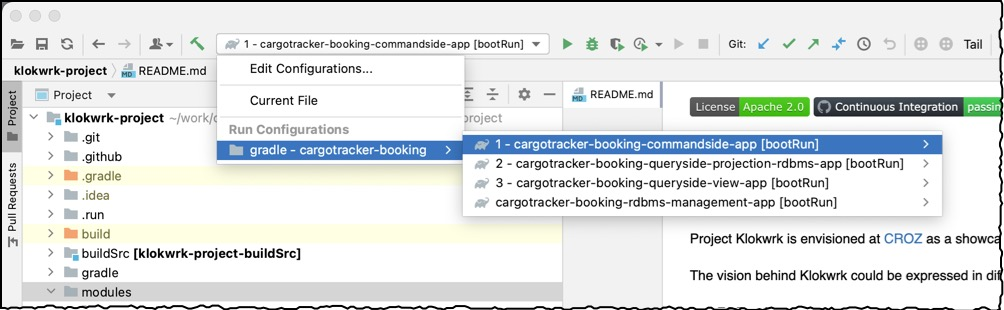
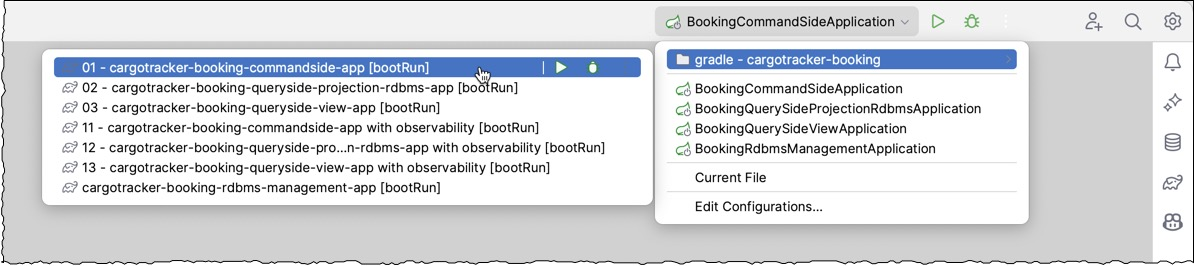
docs: Add observability section in startingUp.md article

diff --git a/support/documentation/article/starting-up/startingUp.md b/support/documentation/article/starting-up/startingUp.md
@@ -1,13 +1,13 @@
 # Starting up and trying the whole thing
 * **Author:** Damir Murat
 * **Created:** 26.05.2020.
-* **Updated:** 13.04.2022.
+* **Updated:** 30.07.2023.
 
 Environment:
 - OSX (should work with any desktop Linux distro and with Windows with appropriate bash-shell like git-bash)
 - JDK 17
-- Gradle 7.4.2 (exact version)
-- IDEA Community/Ultimate 2022.2.3
+- Gradle 7.6.1
+- IDEA Community/Ultimate 2023.2.0
 - Docker
 - Postman
 
@@ -68,7 +68,7 @@ However, if you are interested, there is a way to generate a changelog in a loca
 
 - execute the following commands:
 
-      env JRELEASER_PROJECT_VERSION=1.5.1 JRELEASER_GITHUB_TOKEN=1 \
+      env JRELEASER_PROJECT_VERSION=1.7.0 JRELEASER_GITHUB_TOKEN=1 \
       jreleaser changelog --basedir=. --config-file=./support/jreleaser/jreleaser-draft.yml --debug
 
       open out/jreleaser/release/CHANGELOG.md
@@ -103,7 +103,8 @@ After saving `.idea/gradle.xml`, you must reload all Gradle projects (use the Gr
 ![Module names without noisy qualifiers](images/02-module-names-without-noisy-qualifiers.jpg "Module names without noisy qualifiers")
 
 ## Running and exercising applications
-As in most distributed systems, we have multiple applications to run. Some of them are functional, while others have a supportive role. In addition, we also have required infrastructural pieces.
+As in most distributed systems, we have multiple applications to run. Some of them bring actual functionality, while others have a supportive role. In addition, we also have required infrastructural
+pieces.
 
 ### Starting applications
 In our case, infrastructure comprises Axon Server and PostgreSQL database. To **start those infrastructural components**, open the new shell (shell-2) at the project root and execute the following
@@ -212,24 +213,6 @@ Each request from the scenario contains tests that verify if a particular reques
 
 ![Execute scenario, step 3](images/10-executeScenarioStep3.jpg "Execute scenario, step 3")
 
-### Exploring Wavefront integration
-Since the 2.3.0 version, Spring Boot provides out-of-the-box free integration with Wavefront observability service. It offers zero-setup and feature-rich alternative to the standard observability
-solutions like Prometheus (metrics collection), Zipkin (distributed tracing) and Grafana (visualization) combo. Wavefront is very convenient and effortless to use from a development environment.
-
-Here is a very brief overview of Wavefront usage for a `klokwrk-project`:
-- Start all applications as described previously. From the output of any application, copy the link to the Wavefront service.
-
-  ![Wavefront link](images/11-wavefront-link.jpg "Wavefront link")
-
-- Execute a dozen of commandside and queryside requests as described above, to provide some data to the Wavefront.
-- Open previously copied Wavefront link and start exploring. The following resources will get you quickly up to speed: <br/>
-  - [Tanzu Observability by Wavefront for Spring Boot Applications](https://www.youtube.com/watch?v=Jxwf-Iw-3T8) <br/>
-  - [Wavefront for Spring Boot](https://docs.wavefront.com/wavefront_springboot.html) <br/>
-  - [Wavefront for Spring Boot Tutorial](https://docs.wavefront.com/wavefront_springboot_tutorial.html)
-
-> Note: If you experience issues with Wavefront integration, like getting Wavefront related errors in the log, try removing Wavefront freemium account record from your home directory
-> (`rm ~/.wavefront_freemium`) and start the applications again.
-
 ### Supportive Gradle tasks
 While working on a project, a developer often needs access to various pieces of information about the current state of a project. These reports might provide beneficial information about code quality
 and can point to the areas which require some attention and improvements. Project Klokwrk has a dozen of Gradle tasks that provide such information. They can be run for each individual module, or
@@ -272,3 +255,50 @@ from the project's root.
 - `gw aggregateGroovydoc`
 
   Creates a cumulative documentation for the whole project accessible at `build/docs/aggregate-groovydoc/index.html`.
+
+## Observability with Grfana Cloud (optional)
+To support observability features (metrics, logs, and traces), klokwrk uses the free plan of [Grafana Cloud](https://grafana.com/) offering. The instrumentation of applications is based on
+Spring Boot's micrometer support and OpenTelemetry. For integrating OpenTelemetry with Grafana, klokwrk uses the [grafana-opentelemetry-starter](https://github.com/grafana/grafana-opentelemetry-starter)
+library, and for instrumenting Axon components, the [axon-micrometer](https://github.com/AxonFramework/AxonFramework/blob/master/metrics-micrometer/pom.xml) library.
+
+The delivery of observability data to the Grafana Cloud leverages [Grafana Agent](https://github.com/grafana/agent), a single infrastructure component required to run locally (inside the Docker
+container).
+
+### Configuring observability infrastructure
+As a first step, you have to assign for a [permanent free plan](https://grafana.com/products/cloud/) at Grafana Clod. Make sure you save your Grafana Cloud API key in a safe place.
+
+Second, you must configure Grafana Agent for authorized access to all required components of your Grafana Cloud profile. That includes providing URLs and usernames for provisioned Grafana Cloud's
+Prometheus, Loki, and Tempo servers and your Grafana Cloud API key. Assuming you have the API key already, other information can be found on the
+[https://grafana.com/profile/org](https://grafana.com/profile/org) page.
+
+Now, you must provide that information to the Grafana Agent on your machine. You can do this in the following way:
+- create `support/docker/grafana/grafana-agent/agent.env` file. It will contain all necessary config data as environment variables. And do not worry; the `agent.env` is added to the git ignore list,
+  so you will not accidentally commit it.
+- copy the content of `support/docker/grafana/grafana-agent/agent.env.sample` file in the `agent.env`. The sample file contains comments with dummy URLs which should make it easy to guess the proper
+  format of URLs (Grafana Cloud instructions are not always clear enough).
+
+### Running with observability
+Running the application with observability enabled is similar to running it [without observability](#running-and-exercising-applications). The differences are listed below:
+- to run the infrastructure with Grafana Agent included, use the `dockerComposeInfrastructureUpWithObservability.sh` script:
+
+      ./dockerComposeInfrastructureUpWithObservability.sh
+
+- to run applications with required environment variables set up, use IDEA run configurations with names ending with "`with observability [bootRun]`" as shown in the following picture:
+  ![Run configuration with observability](images/11-observability-run-configurations.jpg "Run configuration with observability")
+
+### Exploring observability data
+After [executing some commands and queries](#executing-http-requests-via-postman), you can access Grafana Cloud UI at `https://your-org.grafana.net/a/cloud-home-app` and explore the collected data.
+For example, you can analyze the logs and related traces as shown in the following picture:
+
+[![Exploring logs and traces](images/12-grafana-explore-logs-and-traces.jpg)](images/12-grafana-explore-logs-and-traces.jpg "Exploring logs and traces")
+
+Another way is to import in Grafana some of the prepared dashboards from the `support/docker/grafana/dashboards` directory:
+
+> <br/>
+> Note: Every time the dashboard source file changes, the dashboard should be reimported in Grafana. <br/>
+> <br/>
+
+- `klokwrk - Axon app - simple metrics.json`<br/>
+  The dashboard displays simple metrics for commands, events, and queries processed by the Axon application. This dashboard is a modification of the original AxonIQ's
+  "[Axon Framework Application](https://grafana.com/grafana/dashboards/12963-axon-spring-boot-applications-statistics/)" dashboard, which didn't work correctly when writing this document.
+  [![Exploring logs and traces](images/13-grafana-dashboard-axon-app-simple-metrics.jpg)](images/13-grafana-dashboard-axon-app-simple-metrics.jpg "Axon app simple metrics dashboard")
